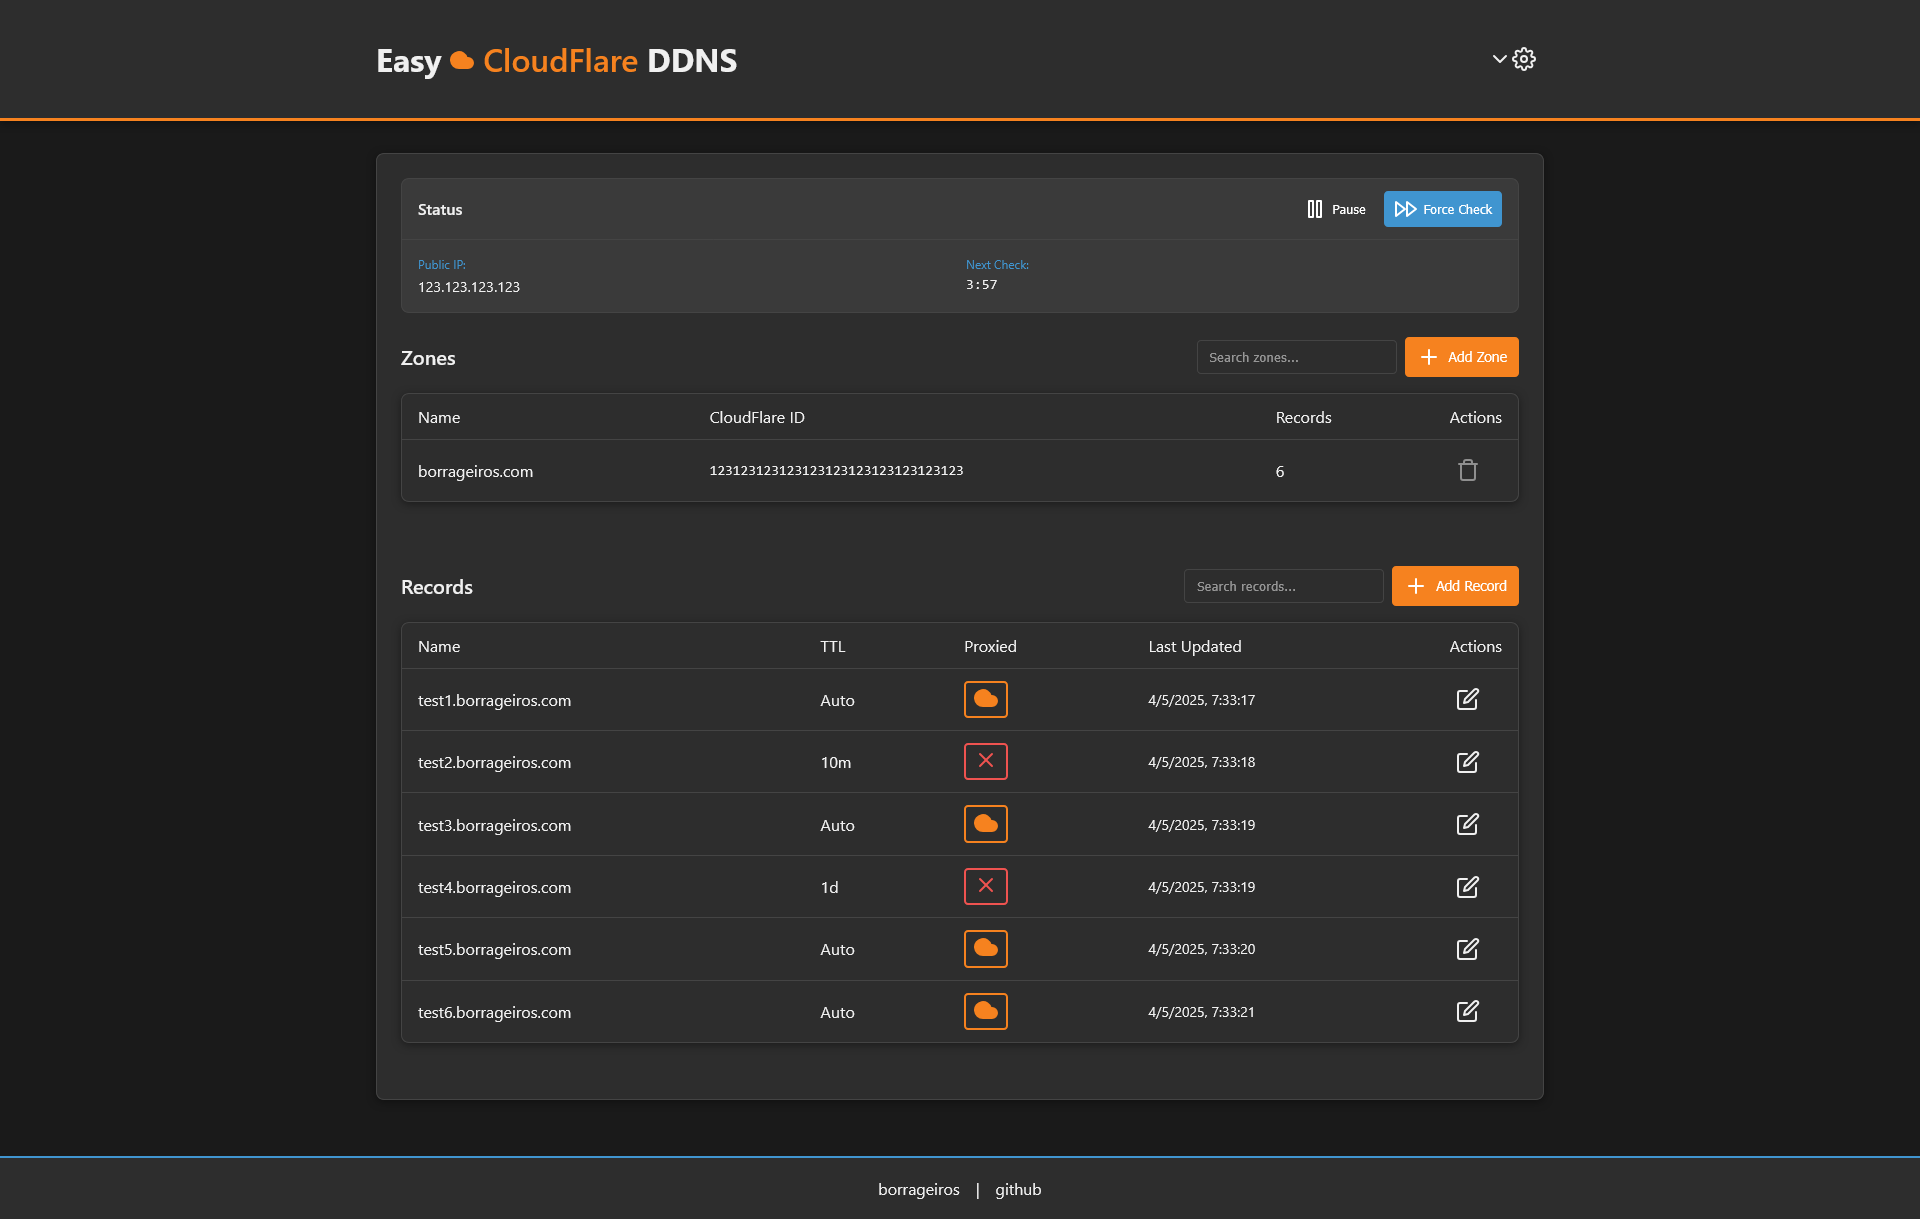
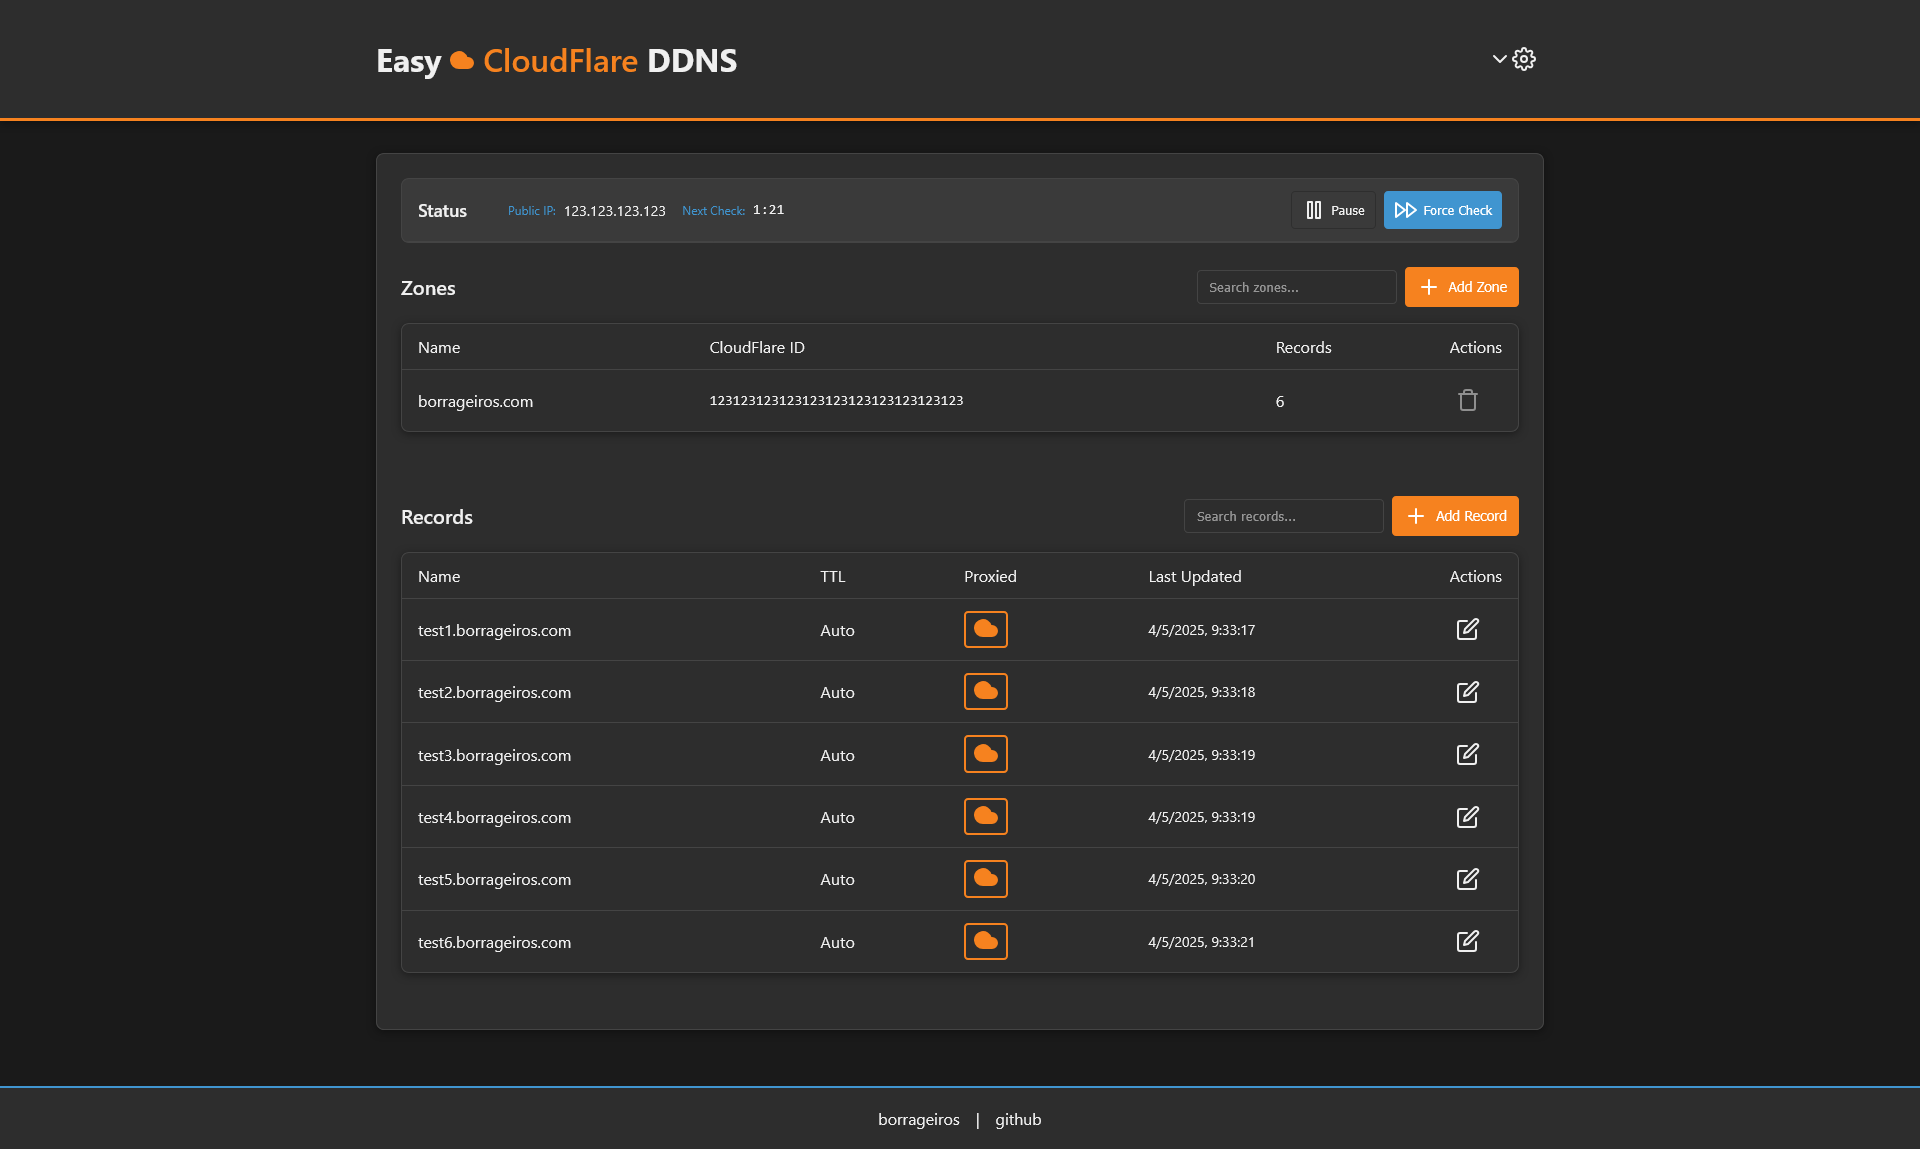
feat: improves

diff --git a/src/routes/+page.svelte b/src/routes/+page.svelte
@@ -398,6 +398,22 @@
           <div class="status-section">
             <div class="status-header">
               <h3>Status</h3>
+              <div class="status-info">
+                <div class="status-item">
+                  <span class="status-label">Public IP:</span>
+                  <span class="status-value">{serverStatus.data.externalIp || 'Unknown'}</span>
+                </div>
+                <div class="status-item">
+                  <span class="status-label">Next Check:</span>
+                  <span class="status-value countdown">
+                    {#if serverStatus.data.isIntervalPaused}
+                      Paused
+                    {:else}
+                      {Math.floor(countdownSeconds / 60)}:{(countdownSeconds % 60).toString().padStart(2, '0')}
+                    {/if}
+                  </span>
+                </div>
+              </div>
               <div class="status-controls">
                 <button
                   class="status-button {serverStatus.data.isIntervalPaused ? 'start-button' : 'pause-button'}"
@@ -420,23 +436,6 @@
                   <Icon name="fast-forward" />
                   <span>Force Check</span>
                 </button>
-              </div>
-            </div>
-            
-            <div class="status-info">
-              <div class="status-item">
-                <span class="status-label">Public IP:</span>
-                <span class="status-value">{serverStatus.data.externalIp || 'Unknown'}</span>
-              </div>
-              <div class="status-item">
-                <span class="status-label">Next Check:</span>
-                <span class="status-value countdown">
-                  {#if serverStatus.data.isIntervalPaused}
-                    Paused
-                  {:else}
-                    {Math.floor(countdownSeconds / 60)}:{(countdownSeconds % 60).toString().padStart(2, '0')}
-                  {/if}
-                </span>
               </div>
             </div>
           </div>
@@ -561,13 +560,16 @@
     padding: 12px 16px;
     background-color: var(--card-header-bg);
     border-bottom: 1px solid var(--border-color);
+    flex-wrap: wrap;
+    gap: 8px;
   }
   
   .status-header h3 {
     margin: 0;
-    font-size: 1rem;
+    font-size: 1.1rem;
     font-weight: 600;
     color: var(--text-color);
+    min-width: 70px;
   }
   
   .status-controls {
@@ -598,11 +600,15 @@
   
   .pause-button {
     background-color: var(--warning-color);
-    color: white;
+    color: var(--text-color);
+    border: 1px solid rgba(0, 0, 0, 0.2);
+    font-weight: 500;
+    text-shadow: 0 1px 1px rgba(0, 0, 0, 0.2);
   }
   
   .pause-button:hover:not(:disabled) {
     background-color: var(--warning-color-dark);
+    box-shadow: 0 1px 3px rgba(0, 0, 0, 0.2);
   }
   
   .force-button {
@@ -620,20 +626,21 @@
   }
   
   .status-info {
-    padding: 16px;
-    display: grid;
-    grid-template-columns: repeat(2, 1fr);
-    gap: 12px;
+    display: flex;
+    flex: 1;
+    gap: 16px;
+    margin: 0 12px;
   }
   
   .status-item {
     display: flex;
-    flex-direction: column;
-    gap: 4px;
+    align-items: center;
+    gap: 8px;
   }
   
   .status-label {
     font-size: 0.75rem;
+    font-weight: 500;
     color: var(--principal-blue);
   }
   
@@ -670,6 +677,99 @@
     .header-section {
       flex-direction: column;
       align-items: stretch;
+    }
+    
+    .status-header {
+      flex-wrap: wrap;
+      gap: 12px;
+    }
+    
+    .status-info {
+      order: 3;
+      width: 100%;
+      margin: 0;
+    }
+  }
+  
+  @media (max-width: 480px) {
+    .server-status {
+      background-color: var(--card-hover);
+      border-radius: 10px;
+      overflow: hidden;
+      box-shadow: 0 2px 6px rgba(0, 0, 0, 0.1);
+    }
+    
+    .status-section {
+      display: flex;
+      flex-direction: column;
+    }
+    
+    .status-header {
+      flex-direction: column;
+      align-items: flex-start;
+      padding: 12px;
+      gap: 12px;
+    }
+    
+    .status-header h3 {
+      font-size: 1.1rem;
+      margin-bottom: 4px;
+      width: 100%;
+      display: flex;
+      align-items: center;
+    }
+    
+    .status-info {
+      display: grid;
+      grid-template-columns: repeat(2, 1fr);
+      width: 100%;
+      gap: 12px;
+      padding: 4px 0 12px;
+      border-bottom: 1px solid rgba(var(--border-color-rgb), 0.5);
+    }
+    
+    .status-item {
+      background-color: rgba(var(--card-bg-rgb), 0.5);
+      padding: 8px 10px;
+      border-radius: 6px;
+      box-shadow: 0 1px 3px rgba(0,0,0,0.05);
+      flex-direction: column;
+      align-items: flex-start;
+      gap: 2px;
+    }
+    
+    .status-label {
+      font-size: 0.7rem;
+      text-transform: uppercase;
+      letter-spacing: 0.5px;
+      color: var(--principal-blue);
+    }
+    
+    .status-value {
+      font-size: 1rem;
+      font-weight: 600;
+    }
+    
+    .status-controls {
+      width: 100%;
+      justify-content: space-between;
+      padding-top: 8px;
+    }
+    
+    .status-button {
+      flex: 1;
+      justify-content: center;
+      padding: 8px 10px;
+      font-weight: 500;
+      border-radius: 6px;
+    }
+    
+    .status-button span:last-child {
+      font-size: 0.85rem;
+    }
+    
+    .force-button {
+      margin-left: 8px;
     }
   }
 </style>
